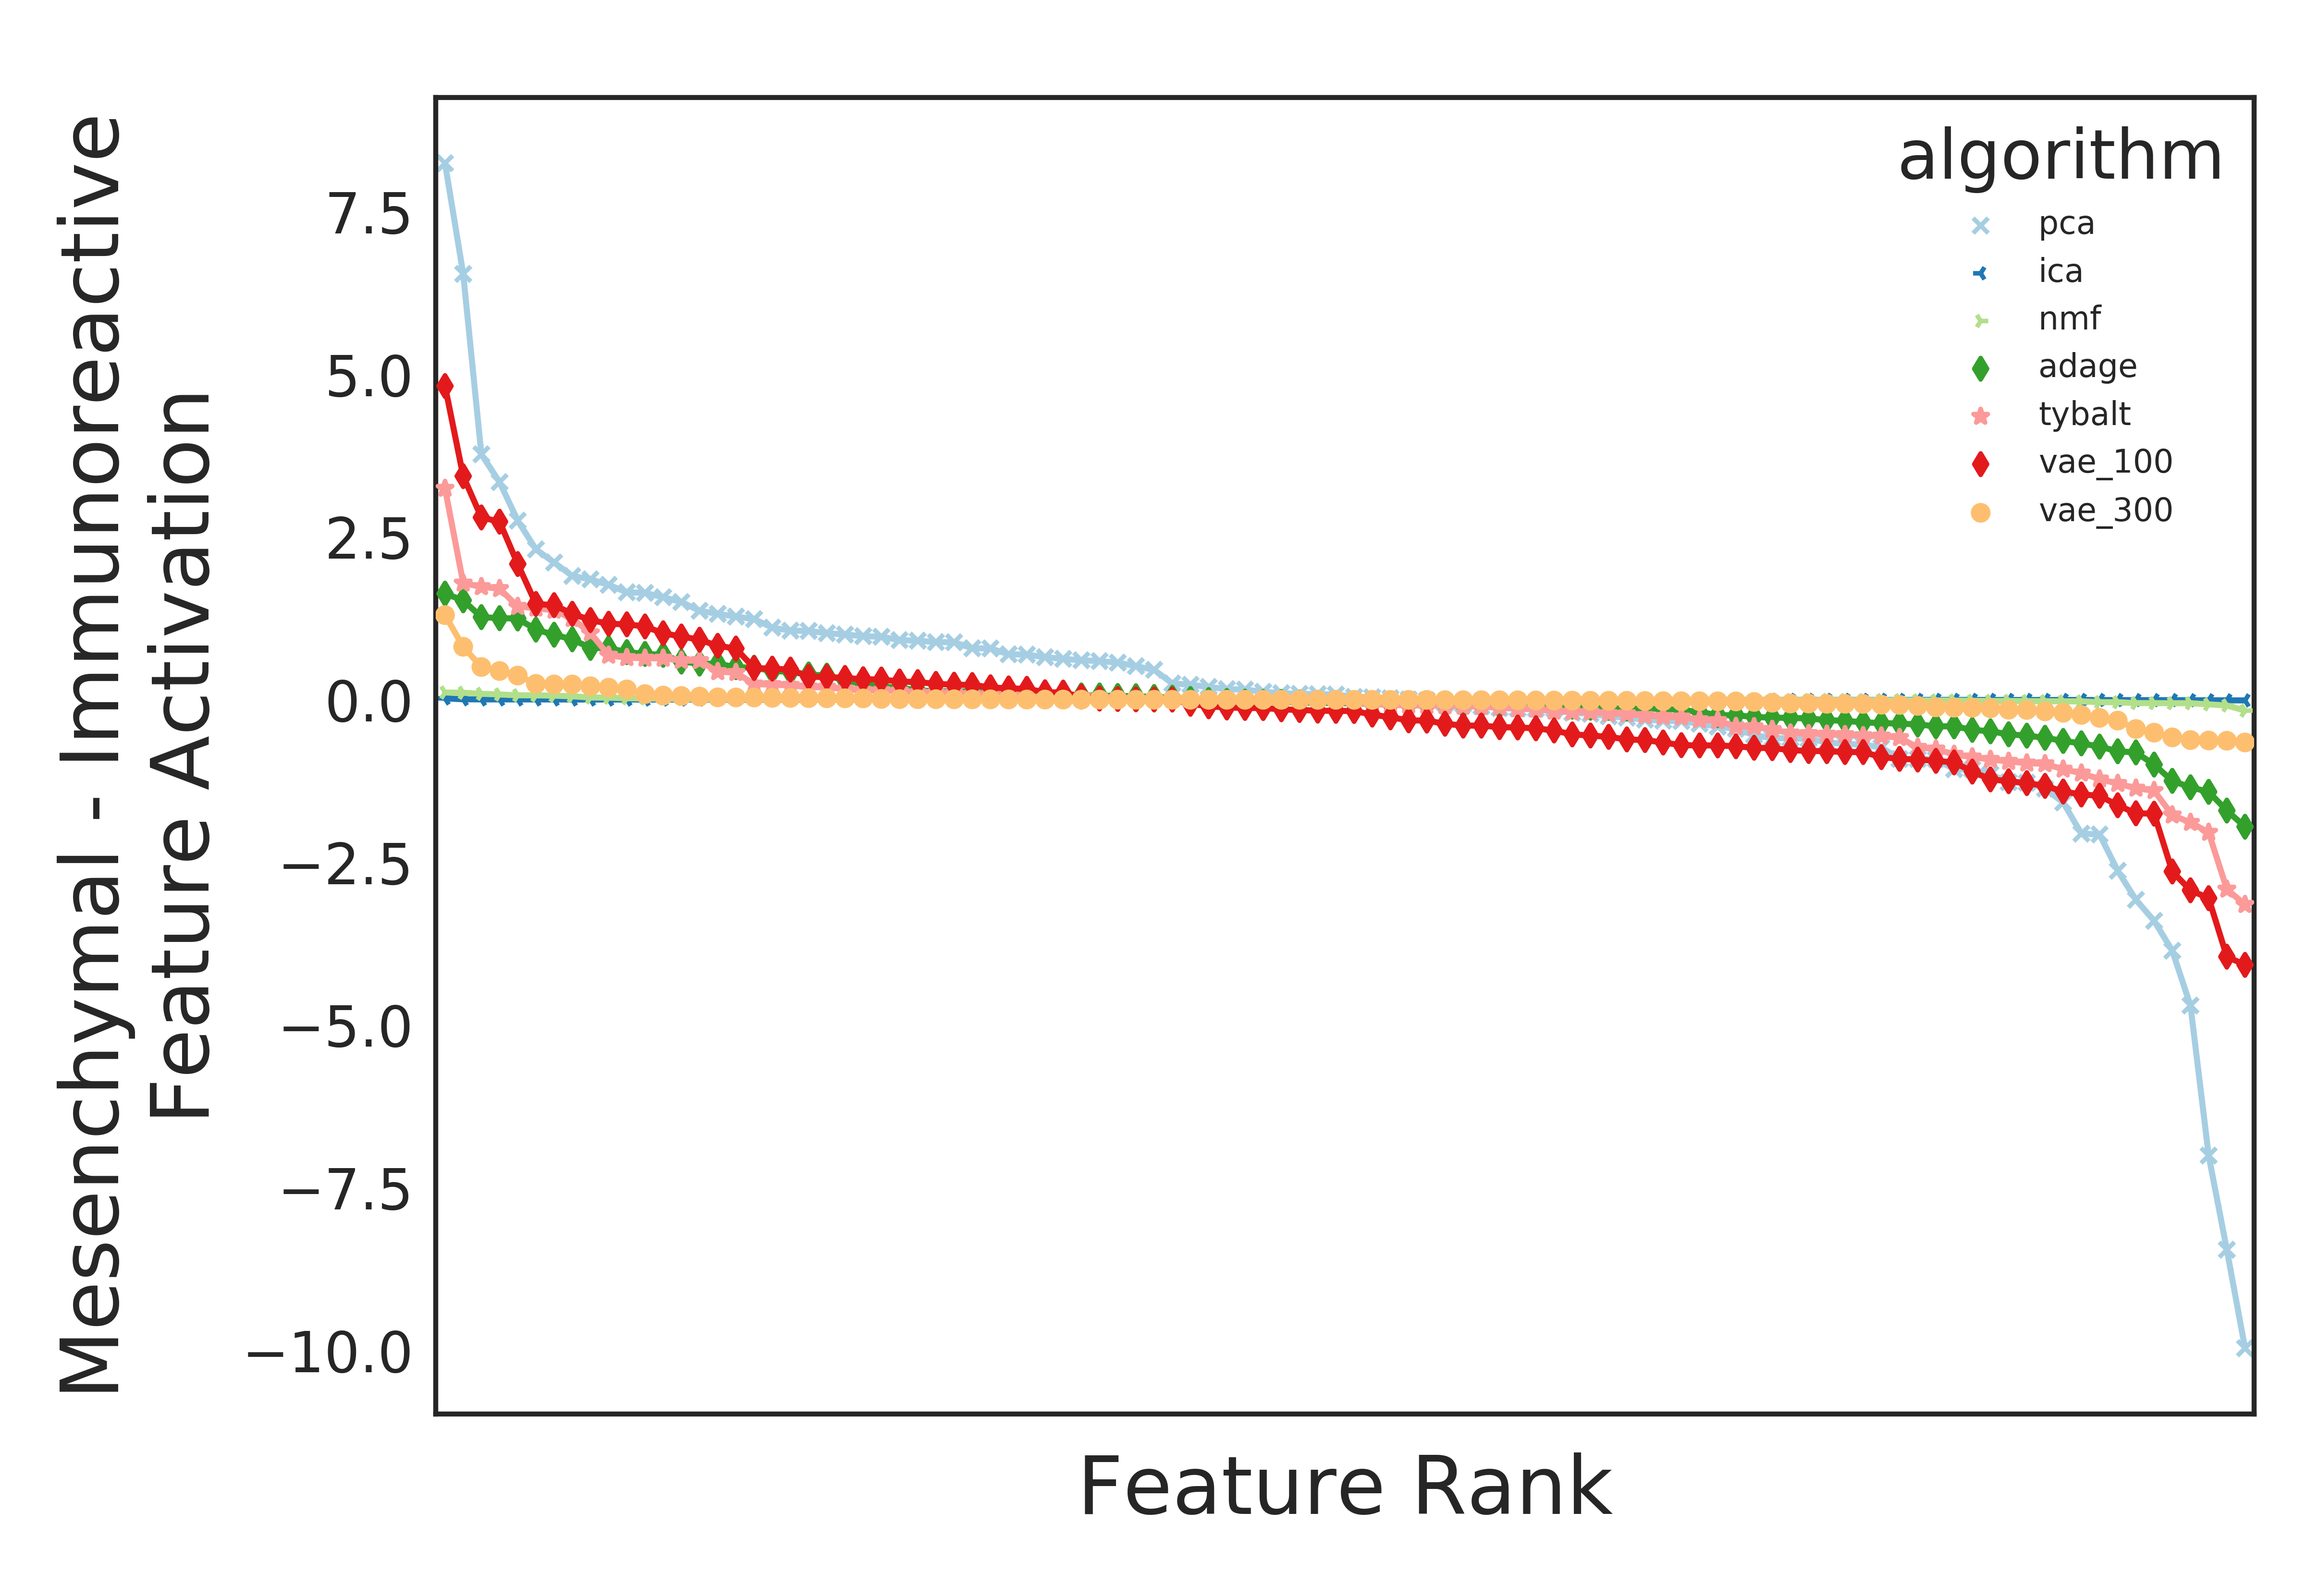
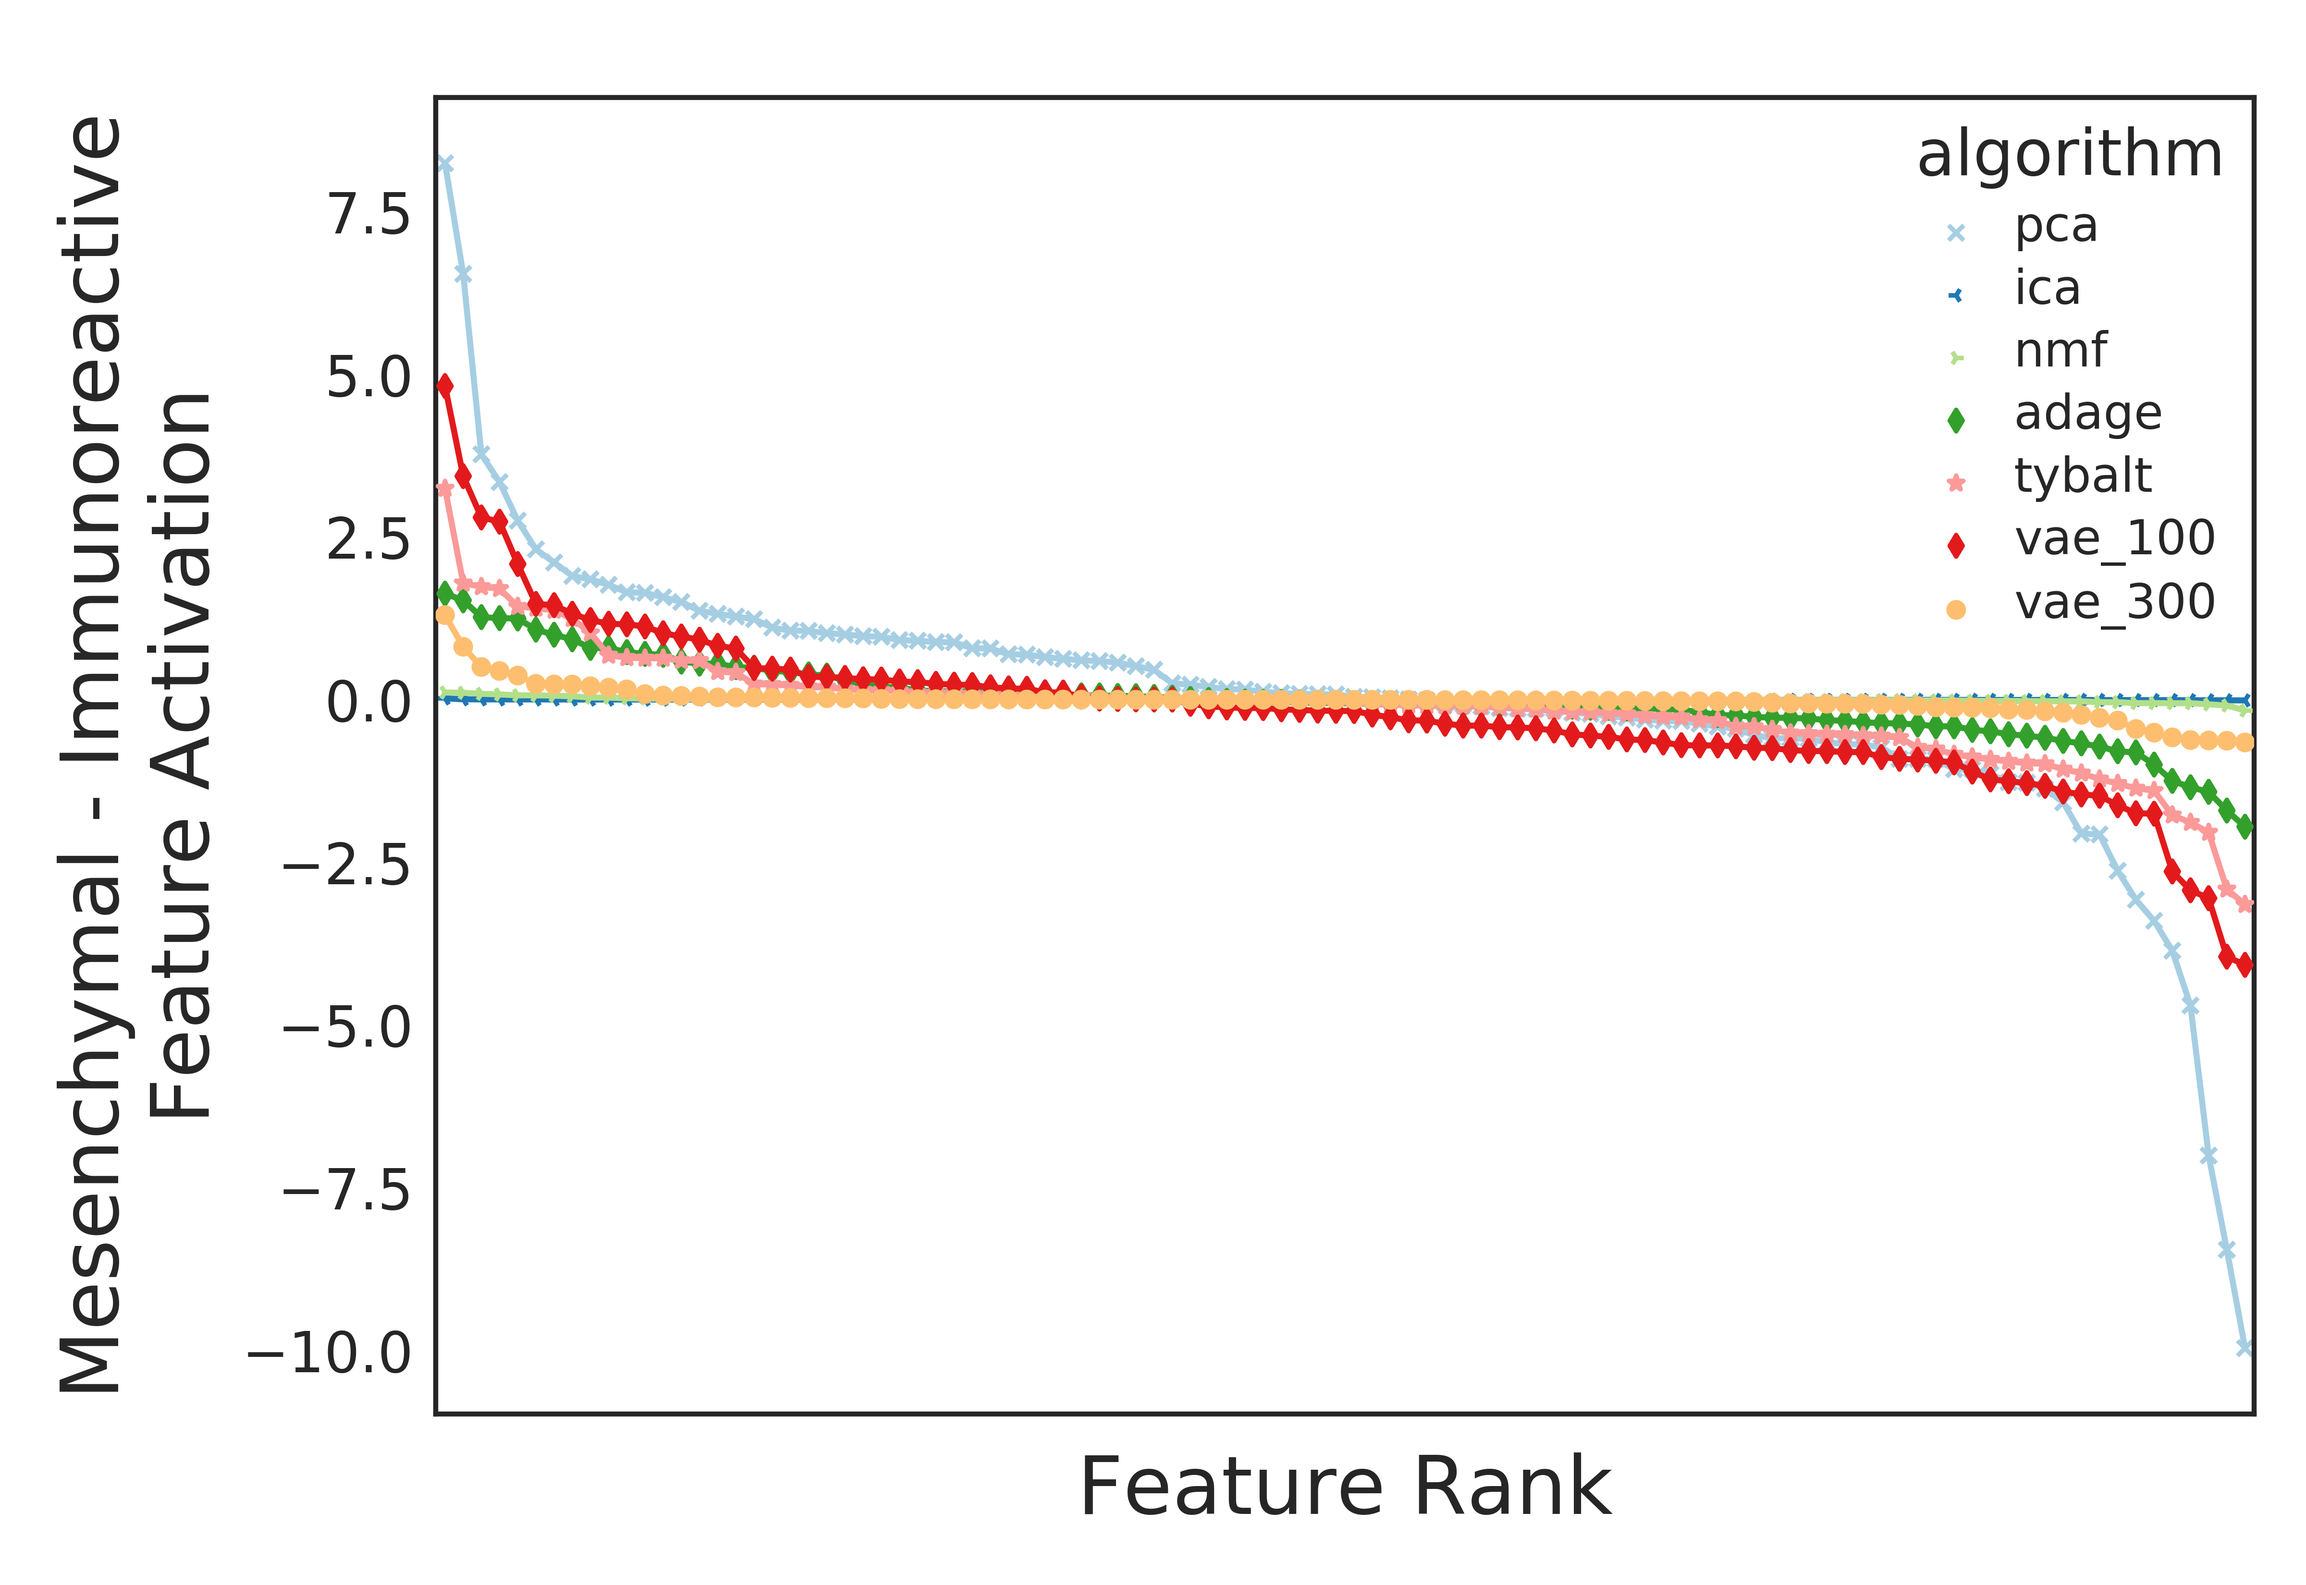
increasing size of figure legend

Changed region(s): [[0.8125, 0.0624, 0.9688, 0.4058]]

diff --git a/scripts/nbconverted/latent_space_comparison.py b/scripts/nbconverted/latent_space_comparison.py
@@ -221,7 +221,7 @@ long_latent_space_df = long_latent_space_df.replace({'algorithm_color': algorith
 long_latent_space_df.head()
 
 
-# In[15]:
+# In[20]:
 
 latent_space_figure = os.path.join('figures', 'algorithm_comparison_latent_space.png')
 ax = sns.pointplot(x='rank', y='activation', hue='algorithm', data=long_latent_space_df,
@@ -231,6 +231,8 @@ ax.set_xlabel('Feature Rank')
 ax.set_ylabel('Mesenchymal - Immunoreactive\nFeature Activation')
 ax.set(xticklabels=[]);
 plt.tight_layout()
+plt.setp(ax.get_legend().get_texts(), fontsize= '12')
+plt.setp(ax.get_legend().get_title(), fontsize= '20')
 plt.savefig(latent_space_figure, dpi=600, height=6, width=5)
 
 
